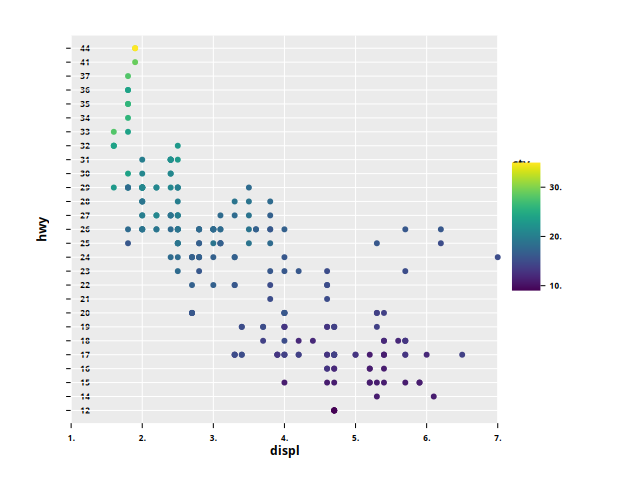
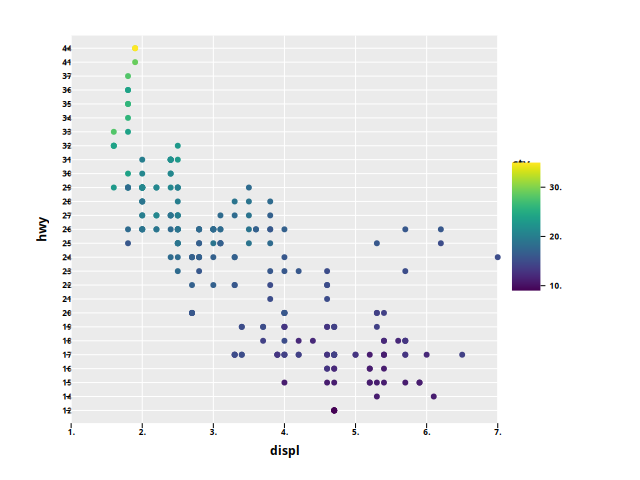
fixes for tick labels

diff --git a/src/python_ggplot/graphics/initialize.py b/src/python_ggplot/graphics/initialize.py
@@ -818,11 +818,13 @@ def set_text_align_kind(
 
     if axis_kind == AxisKind.X:
         return TextAlignKind.CENTER
-    else:  # axis_kind == AxisKind.Y
-        return TextAlignKind.RIGHT if is_secondary else TextAlignKind.LEFT
-
-
-# TODO end
+    elif axis_kind == AxisKind.Y:
+        if is_secondary:
+            return TextAlignKind.RIGHT
+        else:
+            return TextAlignKind.LEFT
+    else:
+        raise GGException("Expect X or Y axis")
 
 
 def init_tick_label_with_override(
@@ -981,7 +983,9 @@ def tick_labels(
             label_text=label_text,
             axis_kind=axis_kind,
             data=data,
-            margin=tick_labels_input.margin
+            margin=tick_labels_input.margin,
+            is_secondary=tick_labels_input.is_secondary,
+            align_override=TextAlignKind.LEFT,
         )
         result.append(new_tick_label)
 

diff --git a/src/python_ggplot/core/coord/convert.py b/src/python_ggplot/core/coord/convert.py
@@ -126,7 +126,7 @@ def text_to_point(data: CoordConversionData) -> Coord1D:
     if not isinstance(data.coord, (StrHeightCoordType, StrWidthCoordType)):
         raise GGException("unexpected")
 
-    dimension = data.coord.point_dimension()
+    dimension = data.coord.relative_dimension()
     pos = data.coord.pos * dimension
     return PointCoordType(pos, LengthCoord(length=data.length))
 

diff --git a/src/python_ggplot/core/coord/objects.py b/src/python_ggplot/core/coord/objects.py
@@ -613,7 +613,7 @@ class StrHeightCoordType(Coord1D):
 
     def point_dimension(self):
         text_extend = self.data.get_text_extend()
-        return text_extend.y_bearing + text_extend.y_advance
+        return text_extend.y_bearing - text_extend.y_advance
 
     def text_extend_dimension(self, text_extend: Any) -> float:
         return text_extend.height

diff --git a/tests/test_plots.py b/tests/test_plots.py
@@ -129,7 +129,6 @@ def test_geom_point_with_color():
     res = ggcreate(plot)
     ggdraw_plot(res, plots_path / "geom_point_with_continuous_color.png")
 
-
 def test_geom_line():
     df = pd.DataFrame(data={"dose": ["D0.5", "D1", "D2"], "bbb": [4.2, 10, 29.5]})
     plot = ggplot(df, aes(x="dose", y="bbb")) + geom_line() + geom_point()
